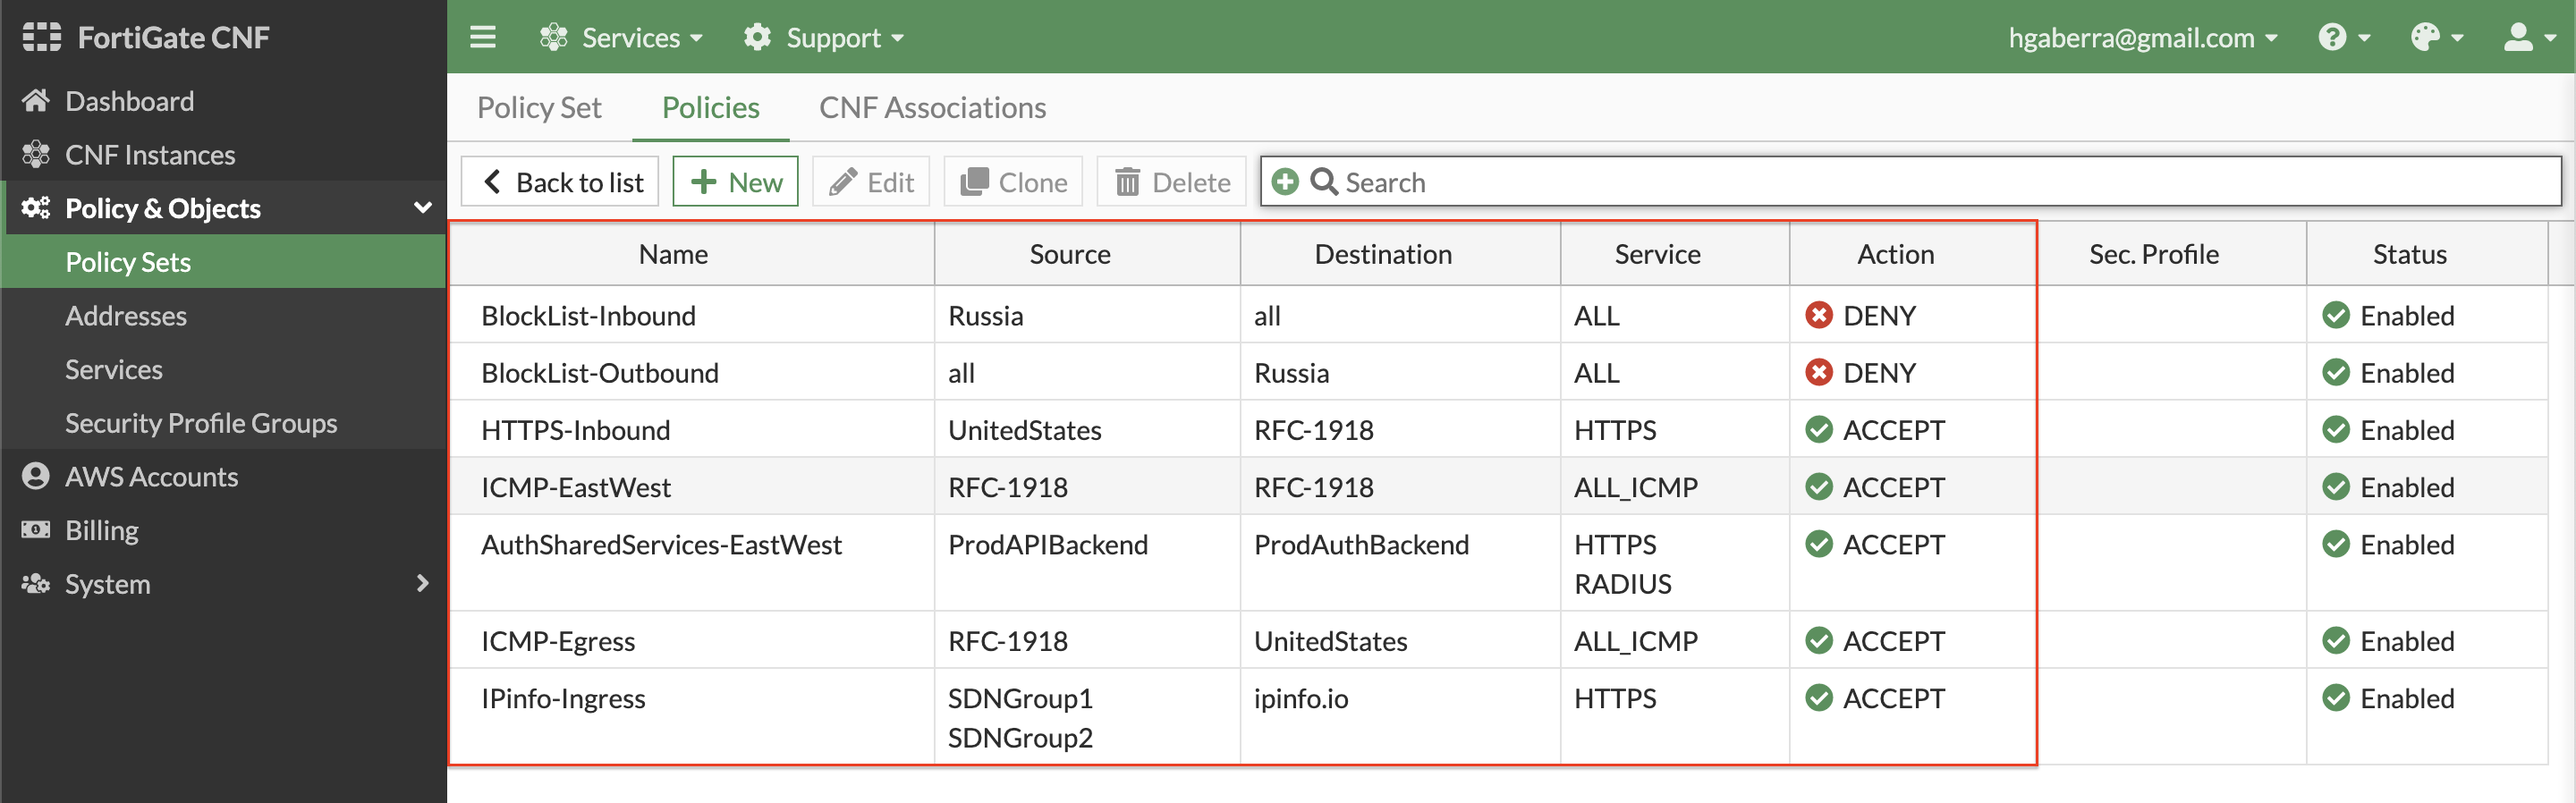
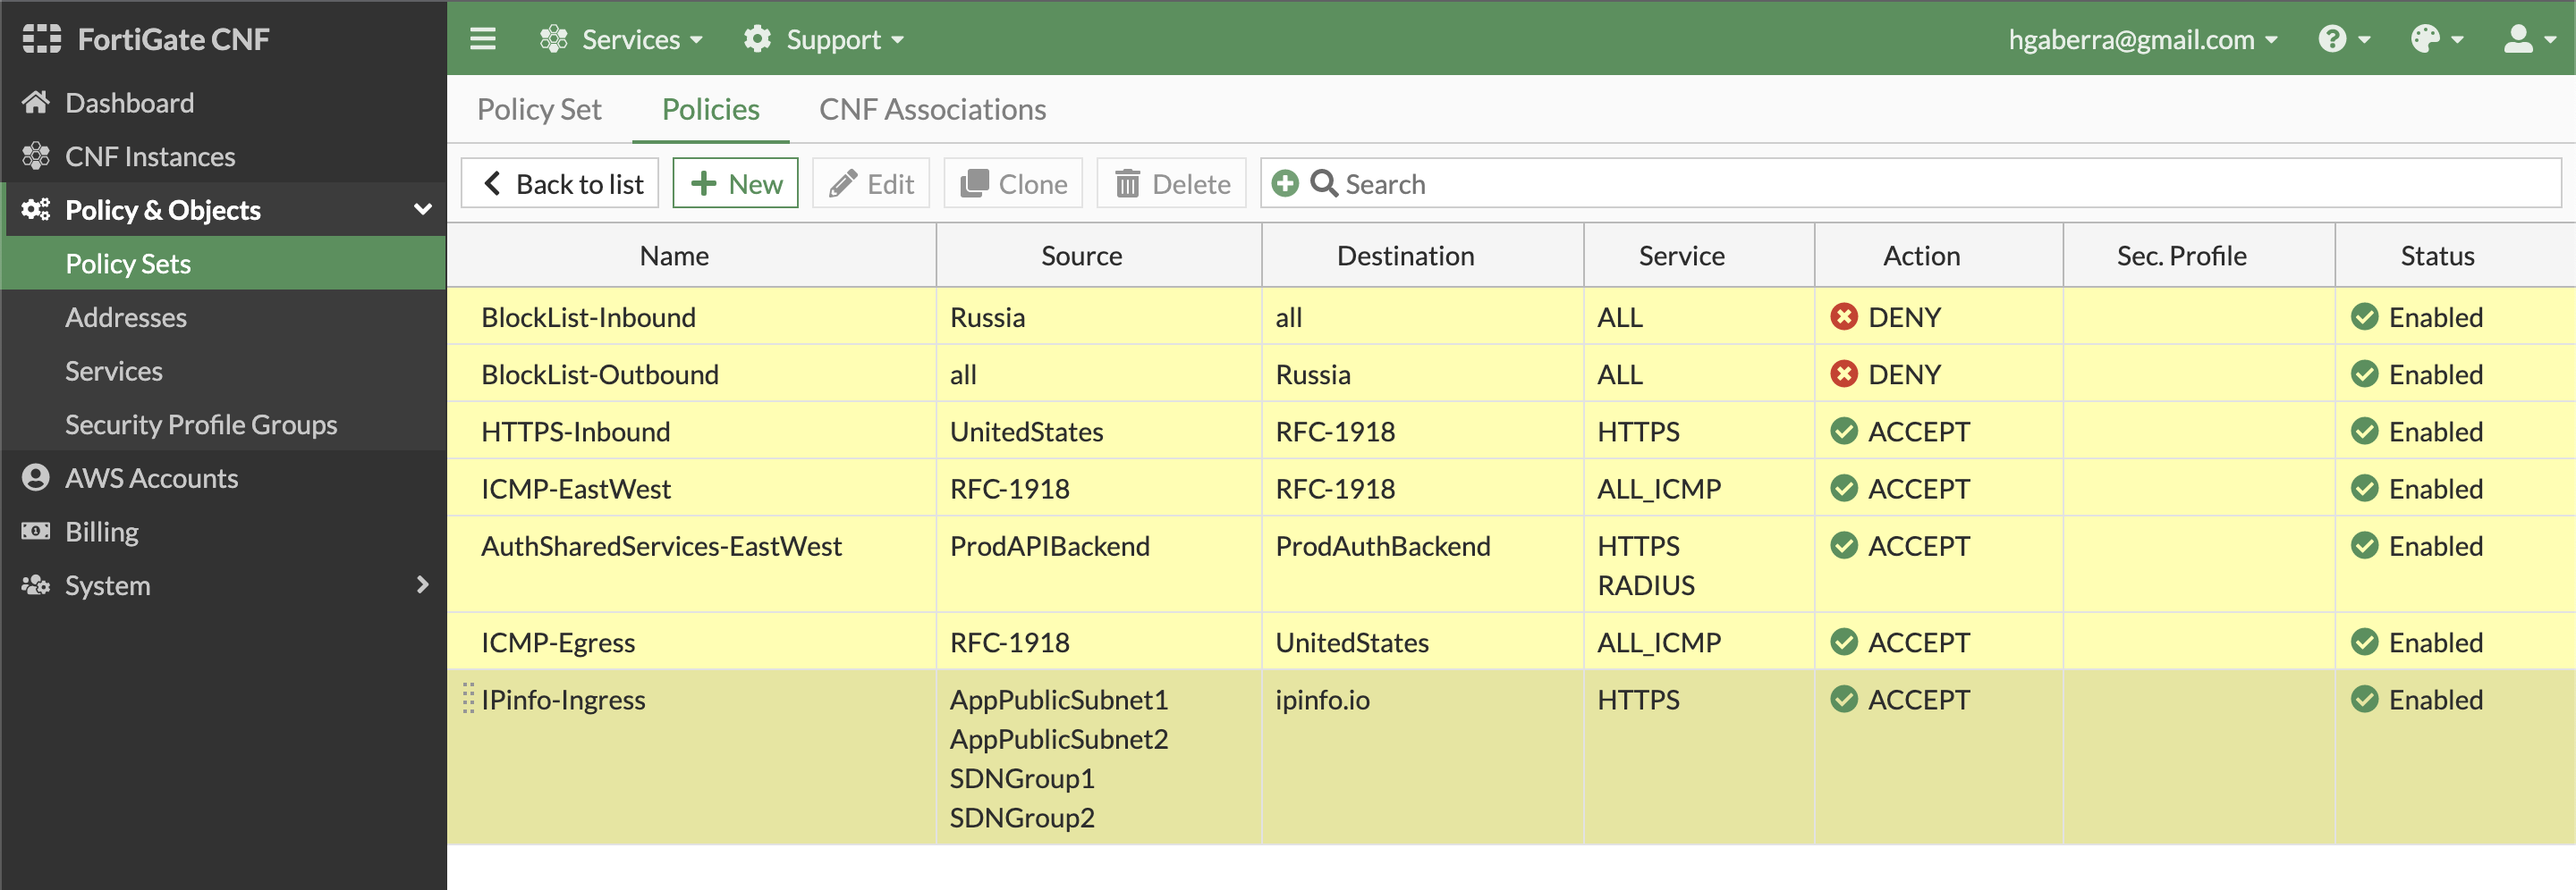
wip readme update 9

diff --git a/README.md b/README.md
@@ -303,6 +303,8 @@ For more examples of distributed and centralized models, please reference the ex
 | ClassC | Subnet | 192.168.0.0/16 |
 | GooglePublicDNS1 | Subnet | 8.8.8.8/32 |
 | GooglePublicDNS2 | Subnet | 8.8.4.4/32 |
+| AppPublicSubnet1 | Subnet | 10.1.1.0/24 |
+| AppPublicSubnet2 | Subnet | 10.1.2.0/24 |
 
 ![](./content/image-t4-3.png)
 
@@ -381,7 +383,7 @@ Here is the list of dynamic objects to create:
 | ICMP-EastWest | RFC-1918 | RFC-1918 | ALL_ICMP | ACCEPT | All Sessions |
 | AuthSharedServices-EastWest | ProdAPIBackend | ProdAuthBackend | HTTPS + RADIUS | ACCEPT | All Sessions |
 | ICMP-Egress | RFC-1918 | UnitedStates | ALL_ICMP | ACCEPT | All Sessions |
-| IPinfo-Egress | SDNGroup1 + SDNGroup2 | ipinfo.io | HTTPS | ACCEPT | All Sessions |
+| IPinfo-Egress | SDNGroup1 + SDNGroup2 + AppPublicSubnet1 + AppPublicSubnet2 | ipinfo.io | HTTPS | ACCEPT | All Sessions |
 
 ![](./content/image-t4-14.png)
 
@@ -477,6 +479,98 @@ curl https://ipinfo.io
 **Note:** You are now only allowing HTTPS outbound to one FQDN and ICMP to any public IP within the United States!
 
 ![](./content/image-t5-5.png)
+
+
+# Centralized Egress
+
+For this traffic flow we will focus on the Shared Services, Workload, and Inspection VPCs. Centralized egress is commonly used when there is a strong desire to control egress traffic through a common set of NAT GWs in an egress or what we call an Inspection VPC. The benefit of this design is that you only need NAT GWs in the Inspection VPC (one per AZ) vs every VPC (one per AZ), which have an hourly cost. The caveat of this design is traffic will traverse additional AWS networking components for inspection (ie TGW, etc) that will have additional cost.
+
+![](./content/image-cent-egress-diag1.png)
+
+**Step 1:** An outbound connection starts with a private EC2 instance initiating a connection to a public resource. The first packet (ie TCP SYN) will be routed to the intrinsic router which will route traffic to the TGW attachment in the same AZ, as configured in the assigned VPC route table. The EC2 instance has a default route, received via DHCP, that points to the first host IP in the subnet which is the intrinsic router.
+
+**Step 2:** The traffic is received at the TGW ENI which then routes the traffic to the Inspection VPC TGW attachment, as configured in the associated Spoke VPC TGW route table.
+
+**Step 3:**  The traffic is received at the TGW ENI in the Inspection VPC which then routes the traffic to the GWLBe endpoint in the same AZ, as configured in the associated VPC route table.
+
+**Step 4:** The traffic is received at the GWLBe endpoint which then routes the traffic to the associated GWLB ENI in the same AZ in the managed Fortinet AWS account/VPC. This is done behind the scene using AWS Private Link.
+
+**Step 5:** The traffic is received at the GWLB ENI and is then encapsulated in a GENEVE tunnel and routed to one of the instances in the FortiGate CNF auto scale group for traffic inspection. Post inspection, if the traffic is allowed, the instance will hairpin the traffic back to the same GWLB ENI over GENEVE. Then the GWLB ENI will hairpin the traffic back to the same GWLBe endpoint.
+
+**Step 6:** The GWLBe endpoint will then route the inspected traffic to the intrinsic router. The intrinsic router will route traffic directly to the NAT GW in the same AZ as specified in the VPC route table assigned to the subnet.
+
+**Step 7:** The traffic is received at the NAT GW ENI which then routes the traffic to the intrinsic router. The intrinsic router will route traffic directly to the IGW as specified in the VPC route table assigned to the subnet.
+
+**Note:** The NAT GW will source NAT the traffic to the private IP assigned to its ENI.
+
+**Step 8:** The destination will receive the traffic and respond. The return traffic will follow these steps in reverse.
+
+**NOTE:** The IGW will source NAT the traffic to the public EIP assigned to the NAT GW ENI.
+
+1.  To test out this flow navigate to the **AWS EC2 console and go to Instances > Instances**. Then select either **WrkInstance** and click Connect > EC2 serial console. Copy the instance ID as this will be the username and click connect.
+
+![](./content/image-t5-6.png)
+
+![](./content/image-t5-7.png)
+
+2.  Login to the instance with the instance ID as the username and **Fortinet123!** as the password. Then run the commands below to test traffic:
+
+```
+ping 8.8.8.8
+curl http://ipinfo.io
+curl https://ipinfo.io
+```
+**Note:** You are now only allowing HTTPS outbound to one FQDN and ICMP to any public IP within the United States!
+
+**Question 1:** What happens if you try the same test from **SSInstance1**?
+
+**Question 2:** What address objects are allowing this communication to work even though the sdn-group = group3 for this instance?
+
+![](./content/image-t5-8.png)
+
+
+# Centralized East West
+
+For this traffic flow we will focus on the Shared Services, Workload, and Inspection VPCs. Centralized East West is commonly used when there is need for multiple VPCs in the same region to access common private resources such as a shared services VPC, premise items, or workloads/services in other VPCs. The benefit of this design is that this a flexible but simple way to interconnect many resources in the same region. The caveat of this design is traffic will traverse additional AWS networking components for inspection (ie TGW, etc) that will have additional cost.
+
+![](./content/image-cent-eastwest-diag1.png)
+
+**Step 1:** An outbound connection starts with a private EC2 instance initiating a connection to a public resource. The first packet (ie TCP SYN) will be routed to the intrinsic router which will route traffic to the TGW attachment in the same AZ, as configured in the assigned VPC route table. The EC2 instance has a default route, received via DHCP, that points to the first host IP in the subnet which is the intrinsic router.
+
+**Step 2:** The traffic is received at the TGW ENI which then routes the traffic to the Inspection VPC TGW attachment, as configured in the associated Spoke VPC TGW route table.
+
+**Step 3:**  The traffic is received at the TGW ENI in the Inspection VPC which then routes the traffic to the GWLBe endpoint in the same AZ, as configured in the associated VPC route table.
+
+**Step 4:** The traffic is received at the GWLBe endpoint which then routes the traffic to the associated GWLB ENI in the same AZ in the managed Fortinet AWS account/VPC. This is done behind the scene using AWS Private Link.
+
+**Step 5:** The traffic is received at the GWLB ENI and is then encapsulated in a GENEVE tunnel and routed to one of the instances in the FortiGate CNF auto scale group for traffic inspection. Post inspection, if the traffic is allowed, the instance will hairpin the traffic back to the same GWLB ENI over GENEVE. Then the GWLB ENI will hairpin the traffic back to the same GWLBe endpoint.
+
+**Step 6:** The GWLBe endpoint will then route the inspected traffic to the intrinsic router. The intrinsic router will route traffic to the TGW attachment in the same AZ as specified in the VPC route table assigned to the subnet.
+
+**Step 7:** The traffic is received at the TGW ENI which then routes the traffic to the Shared Services VPC TGW attachment, as configured in the associated Inspection VPC TGW route table.
+
+**Step 8:** The traffic is received at the TGW ENI in the Shared Services VPC which then routes the traffic to the destination, as configured in the associated VPC route table.
+
+1.  To test out this flow navigate to the **AWS EC2 console and go to Instances > Instances**. Then select **WrkInstance2** and click Connect > EC2 serial console. Copy the instance ID as this will be the username and click connect.
+
+![](./content/image-t5-9.png)
+
+![](./content/image-t5-10.png)
+
+2.  Login to the instance with the instance ID as the username and **Fortinet123!** as the password. Then run the commands below to test traffic:
+
+```
+ping 10.1.2.10
+ssh ec2-user@10.1.2.10
+curl -k https://10.1.2.10
+```
+**Note:** You are now only allowing HTTPS and RADIUS access between two resourced based on metadata (ie Tags)!
+
+**Question:** What happens if you try the same test from **WrkInstance1**?
+
+**Question 2:** What tags are allowing this communication to match the dynamic address objects?
+
+![](./content/image-t5-11.png)
 
 
 # Task 6: Providing Feedback
